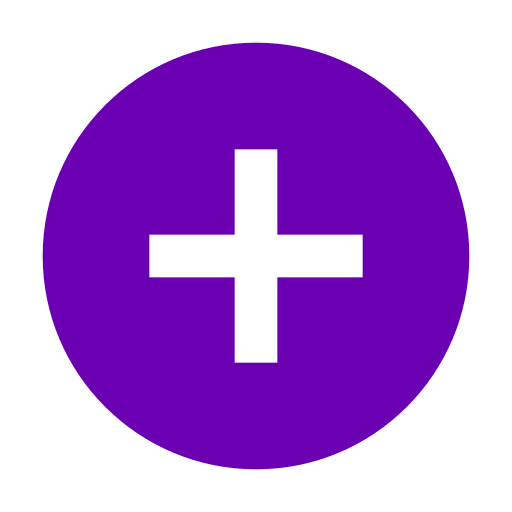
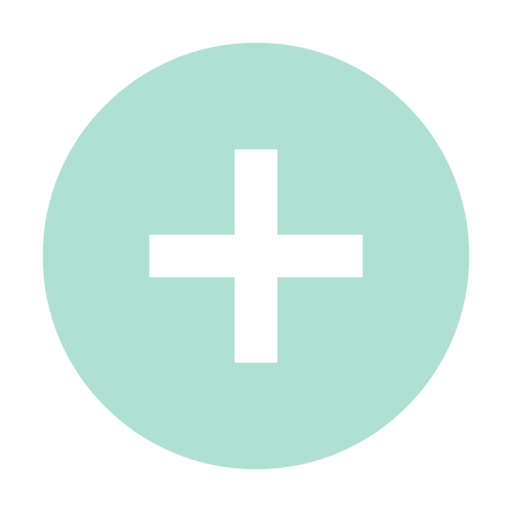
modified:   assets/add_button.png 	new file:   assets/clear.png 	new file:   assets/note.png 	modified:   package.json 	modified:   res/drawables.js 	modified:   src/navigation/index.js 	modified:   src/screens/CreateNote/index.js 	modified:   src/screens/Main/index.js 	new file:   src/screens/NoteD

diff --git a/src/screens/Main/index.js b/src/screens/Main/index.js
@@ -1,19 +1,64 @@
-import React from "react";
-import { View, Text, StyleSheet, TouchableOpacity, Image } from "react-native";
-import { ADD_BUTTON_IMG } from "../../../res/drawables";
+import React, { useEffect, useState } from "react";
+import {
+  View,
+  Text,
+  StyleSheet,
+  FlatList,
+  Image,
+  TouchableOpacity,
+} from "react-native";
+import { ADD_BUTTON_IMG, NOTE_IMG, CLEAR_IMG } from "../../../res/drawables";
 import ImageButton from "../../components/ImageButton";
+import AsyncStorage from "@react-native-async-storage/async-storage";
 
 const Main = (props) => {
+  const [data, setData] = useState([]);
+
+  useEffect(() => {
+    loadAllKeyFromAsyncStorage();
+  }, [data]);
+
+  const loadAllKeyFromAsyncStorage = async () => {
+    let keys = await AsyncStorage.getAllKeys();
+    setData(keys);
+    //console.log(keys);
+  };
+
+  const clearAsyncStorage = async () => {
+    AsyncStorage.clear();
+  };
+
   return (
     <View style={styles.container}>
-      <Text></Text>
-      <ImageButton
-        style={{
-          alignSelf: "flex-end",
+      <FlatList
+        data={data}
+        numColumns={4}
+        renderItem={({ item }) => {
+          return (
+            <TouchableOpacity
+              onPress={async () => {
+                let title = item;
+                //let description = await AsyncStorage.getItem(item);
+                //props.navigation.navigate("Details", { title, description });
+                props.navigation.navigate("Update", title);
+              }}
+            >
+              <View style={{ margin: 5 }}>
+                <Image style={styles.noteIcon} source={NOTE_IMG} />
+                <Text style={styles.text}>{item}</Text>
+              </View>
+            </TouchableOpacity>
+          );
         }}
-        source={ADD_BUTTON_IMG}
-        onPress={() => props.navigation.navigate("Create")}
+        keyExtractor={(item) => item}
       />
+      <View style={styles.icons_container}>
+        <ImageButton source={CLEAR_IMG} onPress={() => clearAsyncStorage()} />
+        <ImageButton
+          source={ADD_BUTTON_IMG}
+          onPress={() => props.navigation.navigate("Create")}
+        />
+      </View>
     </View>
   );
 };
@@ -23,11 +68,21 @@ const styles = StyleSheet.create({
     flex: 1,
     justifyContent: "space-between",
   },
-  // imgBtn: {
-  //   position: "absolute",
-  //   bottom: 30,
-  //   right: 30,
-  // },
+  noteIcon: {
+    height: 80,
+    width: 80,
+  },
+  text: {
+    alignSelf: "center",
+    fontWeight: "bold",
+    textAlign: "center",
+    width: 80,
+  },
+  icons_container: {
+    flexDirection: "row",
+    justifyContent: "space-between",
+    margin: 10,
+  },
 });
 
 export default Main;

diff --git a/src/screens/UpdateNote/index.js b/src/screens/UpdateNote/index.js
@@ -1,4 +1,4 @@
-import React, { useState } from "react";
+import React, { useEffect, useState } from "react";
 import {
   View,
   Text,
@@ -16,23 +16,33 @@ import {
   COLOR_BLACK,
 } from "../../../res/drawables";
 
-const CreateNote = (props) => {
-  const [title, setTitle] = useState("");
+const UpdateNote = (props) => {
+  let noteTitle = props.route.params;
+  console.log(props.route.params);
+  console.log(noteTitle);
+  const [title, setTitle] = useState(noteTitle);
   const [description, setDescription] = useState("");
 
-  const onAddPressed = async () => {
+  useEffect(() => {
+    loadData();
+  }, []);
+
+  const loadData = async () => {
+    if (noteTitle) {
+      let description = await AsyncStorage.getItem(noteTitle);
+      setTitle(noteTitle);
+      setDescription(description);
+    }
+  };
+
+  const onUpdatePressed = async () => {
     if (title != "" && description != "") {
       try {
         let value = await AsyncStorage.getItem(title);
         if (value) {
-          alert("Title already exists");
-        } else {
           await AsyncStorage.setItem(title, description);
-          // setTitle("");
-          // setDescription("");
-          alert("Note saved");
+          alert("Note Updated");
           props.navigation.navigate("Main");
-          //props.navigation.goBack();
         }
       } catch (e) {
         console.log(e);
@@ -46,6 +56,7 @@ const CreateNote = (props) => {
     <KeyboardAvoidingView behavior="height" style={styles.container}>
       <View style={{ ...styles.card, height: "7%" }}>
         <TextInput
+          value={title}
           style={{ padding: 10 }}
           placeholder="Enter title here"
           onChangeText={(t) => setTitle(t)}
@@ -57,10 +68,11 @@ const CreateNote = (props) => {
           placeholder="Enter description here"
           onChangeText={(t) => setDescription(t)}
           multiline={true}
+          value={description}
         />
       </View>
       <View style={{ alignSelf: "center" }}>
-        <Button title="Add Note" onPress={() => onAddPressed()} />
+        <Button title="Update Note" onPress={() => onUpdatePressed()} />
       </View>
     </KeyboardAvoidingView>
   );
@@ -82,4 +94,4 @@ const styles = StyleSheet.create({
   },
 });
 
-export default CreateNote;
+export default UpdateNote;

diff --git a/src/navigation/index.js b/src/navigation/index.js
@@ -5,6 +5,8 @@ import { createNativeStackNavigator } from "@react-navigation/native-stack";
 import Splash from "../screens/Splash";
 import Main from "../screens/Main";
 import CreateNote from "../screens/CreateNote";
+import NoteDetails from "../screens/NoteDetails";
+import UpdateNote from "../screens/UpdateNote";
 
 const Stack = createNativeStackNavigator();
 
@@ -26,6 +28,16 @@ function Navigation() {
           options={{ headerTitleAlign: "center" }}
           name="Create"
           component={CreateNote}
+        />
+        <Stack.Screen
+          options={{ headerTitleAlign: "center" }}
+          name="Details"
+          component={NoteDetails}
+        />
+        <Stack.Screen
+          options={{ headerTitleAlign: "center" }}
+          name="Update"
+          component={UpdateNote}
         />
       </Stack.Navigator>
     </NavigationContainer>

diff --git a/src/screens/NoteDetails/index.js b/src/screens/NoteDetails/index.js
@@ -1,0 +1,16 @@
+import React from "react";
+import { View, Text } from "react-native";
+
+const NoteDetails = (props) => {
+  const { title, description } = props.route.params;
+  console.log(props.route.params);
+  console.log(title);
+  return (
+    <View style={{ flex: 1, justifyContent: "center", alignItems: "center" }}>
+      <Text style={{ fontSize: 20 }}>{title}</Text>
+      <Text>{description}</Text>
+    </View>
+  );
+};
+
+export default NoteDetails;

diff --git a/res/drawables.js b/res/drawables.js
@@ -1,6 +1,9 @@
 export const BACKGROUNG_COLOR = "#d3d3d3";
 export const COLOR_WHITE = "#ffffff";
 export const COLOR_BLACK = "#000000";
+export const COLOR_GENERAL = "#B0E0D4";
 
 const PATH = "../assets";
 export const ADD_BUTTON_IMG = require(PATH + "/add_button.png");
+export const NOTE_IMG = require(PATH + "/note.png");
+export const CLEAR_IMG = require(PATH + "/clear.png");
